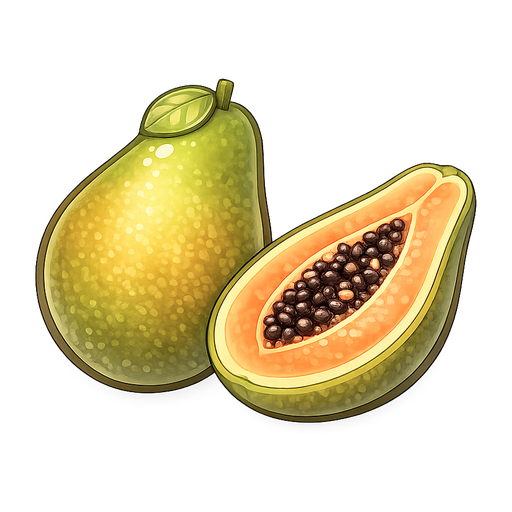
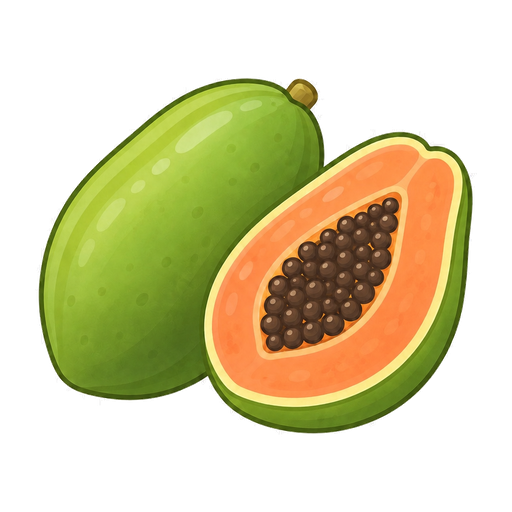
Fruits all added, new birth plan tool

diff --git a/weekContent.js b/weekContent.js
@@ -199,8 +199,8 @@ const WEEK_CONTENT = [
   },
   {
     week: 17,
-    fruit: "an onion",
-    emoji: "🧅",
+    fruit: "a pear",
+    emoji: "🍐",
     lengthCm: 13.0,
     weightG: 140.0,
     baby: "A protective coating called vernix begins to form on the skin. The skeleton is shifting from soft cartilage to bone, and fat stores are starting.",
@@ -292,8 +292,8 @@ const WEEK_CONTENT = [
   },
   {
     week: 23,
-    fruit: "a pomelo",
-    emoji: "🍊",
+    fruit: "a large tomato",
+    emoji: "🍅",
     lengthCm: 28.9,
     weightG: 500.0,
     headToHeel: true,
@@ -340,8 +340,8 @@ const WEEK_CONTENT = [
   },
   {
     week: 26,
-    fruit: "a cherimoya",
-    emoji: "🟢",
+    fruit: "a head of lettuce",
+    emoji: "🥬",
     lengthCm: 35.6,
     weightG: 760.0,
     headToHeel: true,
@@ -436,7 +436,7 @@ const WEEK_CONTENT = [
   },
   {
     week: 32,
-    fruit: "a honeydew melon",
+    fruit: "a winter melon",
     emoji: "🍈",
     lengthCm: 42.4,
     weightG: 1700.0,

diff --git a/app.js b/app.js
@@ -5,7 +5,7 @@
 
 (() => {
   const root = document.getElementById('app');
-  const APP_VERSION = 'v20';
+  const APP_VERSION = 'v23';
 
   const state = {
     dating: { lmp: null, ultrasoundDueDate: null },

diff --git a/sw.js b/sw.js
@@ -1,6 +1,6 @@
 // sw.js — caches the app shell for offline use. Bump CACHE_VERSION on release.
 
-const CACHE_VERSION = 'bloom-pwa-v20';
+const CACHE_VERSION = 'bloom-pwa-v23';
 const ASSETS = [
   './',
   './index.html',